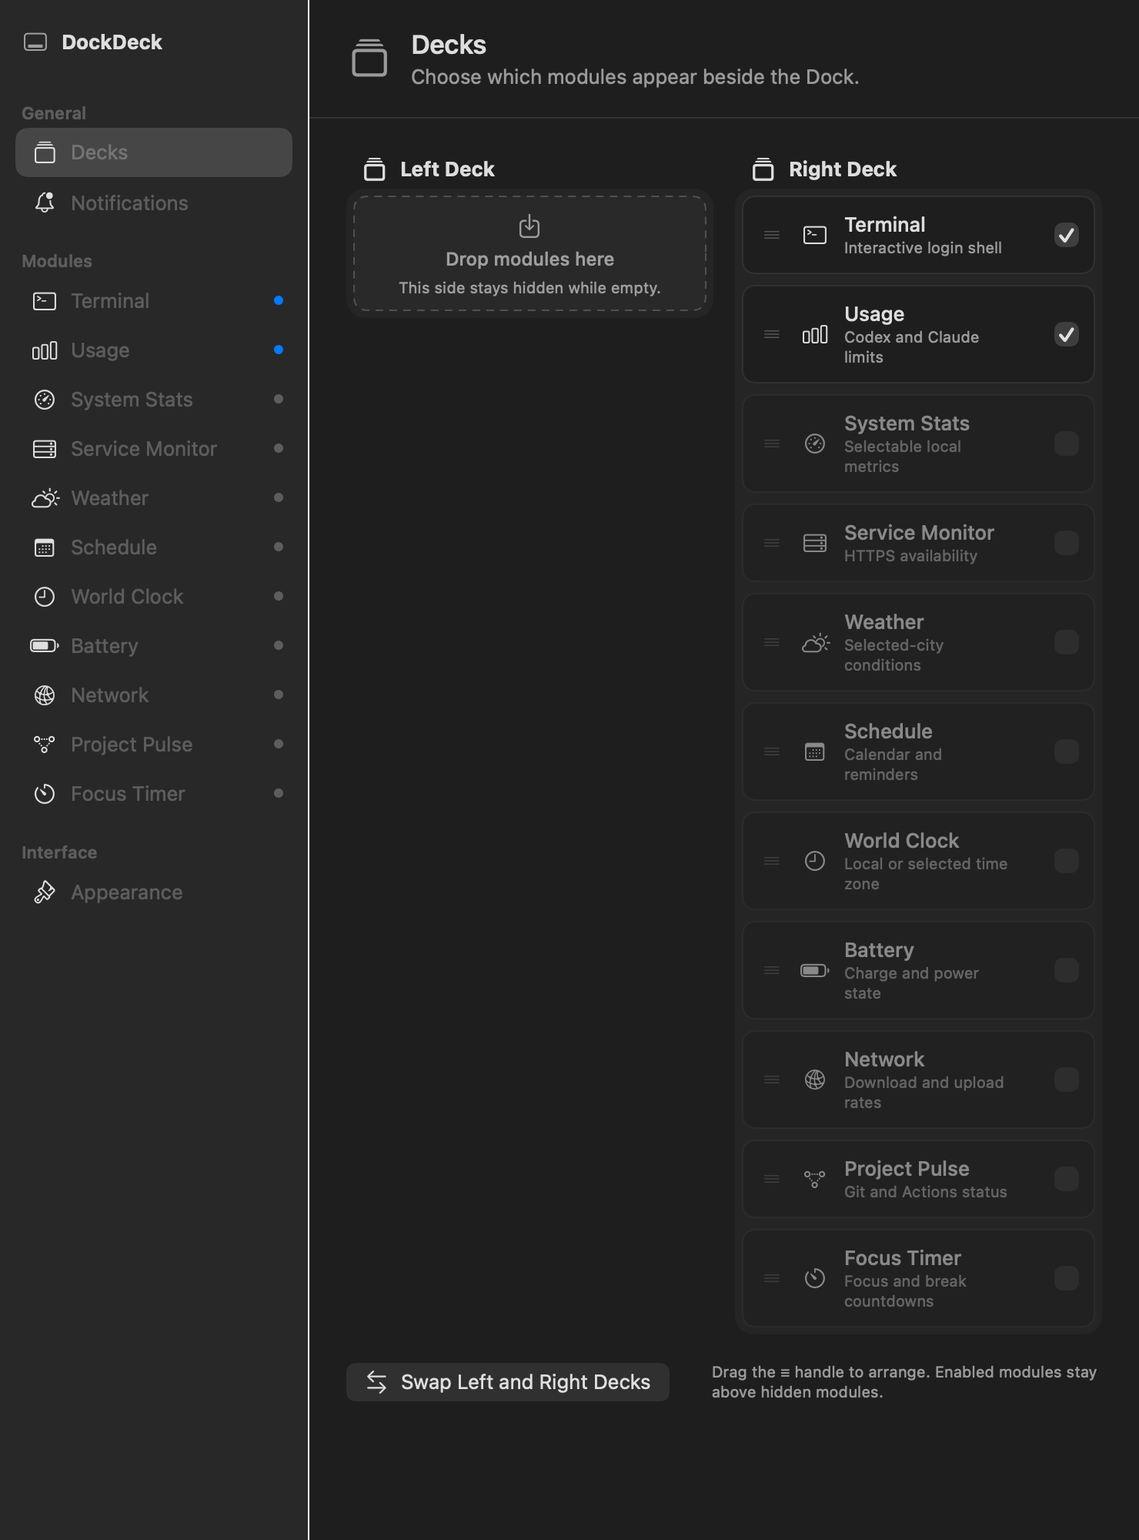
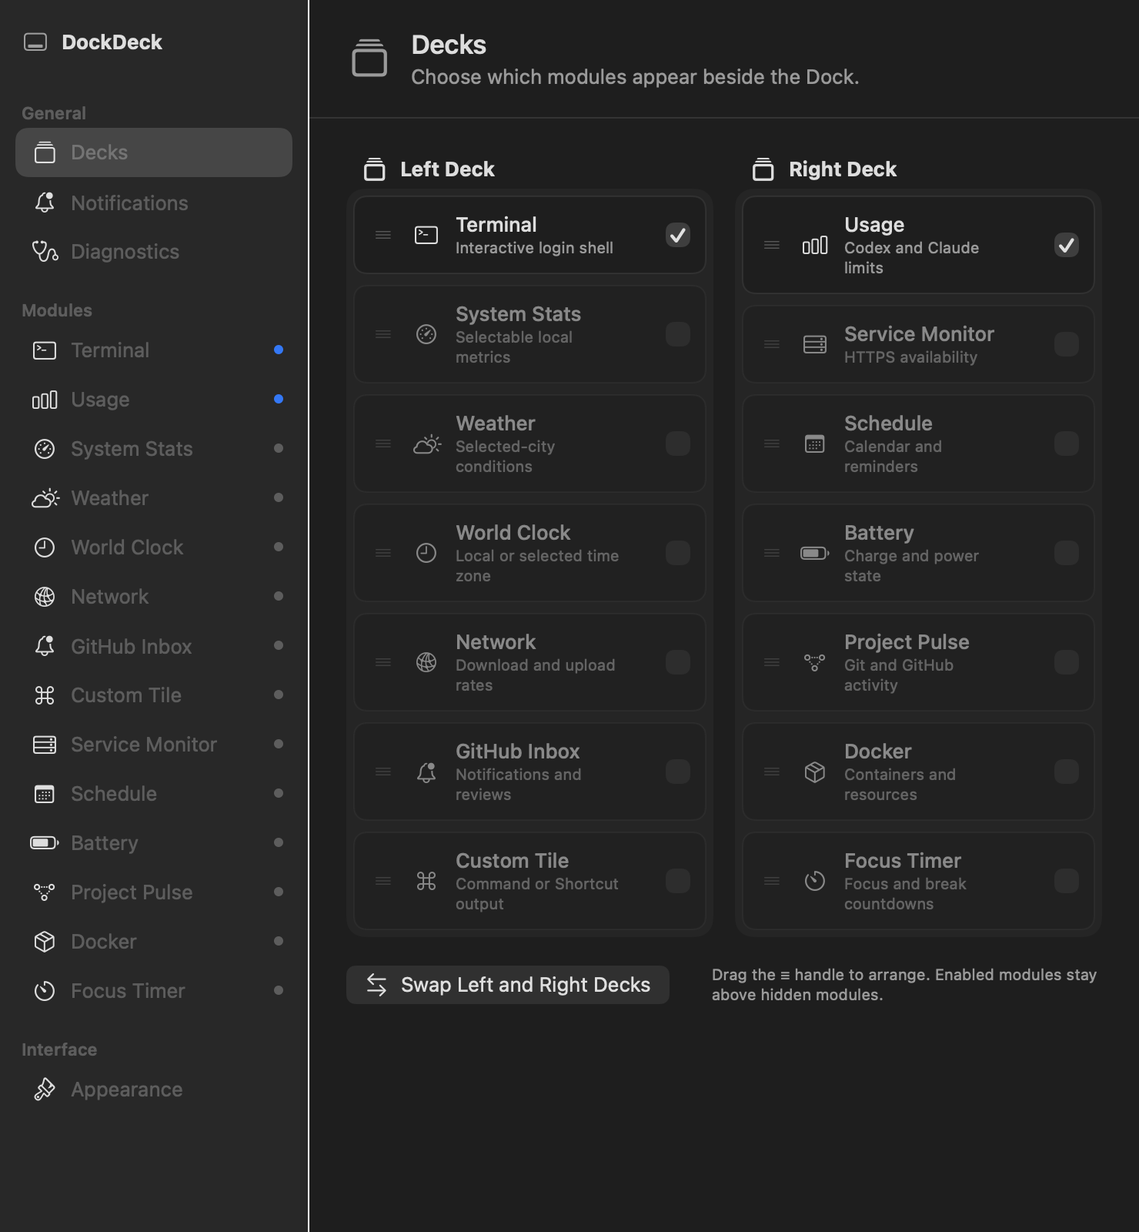
docs: document new modules

diff --git a/README.md b/README.md
@@ -18,25 +18,29 @@
   <sub>Compact terminal and configurable Codex and Claude usage beside the macOS Dock. Open the image for full resolution.</sub>
 </p>
 
-DockDeck uses the space beside a bottom-aligned Dock for up to two compact module Decks. Assign Terminal, Usage, System Stats, Service Monitor, Weather, Schedule, World Clock, Battery, Network, Project Pulse, and Focus Timer to either side; each non-empty Deck shows one enabled module at a time. The terminal stays interactive whenever it is selected. Both Decks follow the Dock across displays, Spaces, and auto-hide transitions.
+DockDeck uses the space beside a bottom-aligned Dock for up to two compact module Decks. Assign Terminal, Usage, System Stats, Service Monitor, Weather, Schedule, World Clock, Battery, Network, Project Pulse, GitHub Inbox, Docker, Custom Tile, and Focus Timer to either side; each non-empty Deck shows one enabled module at a time. The terminal stays interactive whenever it is selected. Both Decks follow the Dock across displays, Spaces, and auto-hide transitions.
 
 ## Features
 
 - Persistent [SwiftTerm](https://github.com/migueldeicaza/SwiftTerm) login shell with a compact `% ` prompt that does not change user shell files.
 - Remaining or used Codex and Claude capacity, reset times, and an optional even-use pace marker from their supported local CLIs. Claude can refresh automatically or use only its optional status-line bridge; neither mode reads browser cookies or private web endpoints.
-- Two to four selectable local CPU, memory, disk, network-I/O, and temperature tiles with a configurable 1–10 second sampling interval.
-- HTTPS service availability and latency checks for up to four user-configured endpoints.
+- Two to four selectable local CPU, memory, disk, network-I/O, and temperature tiles with a configurable 1–10 second sampling interval and in-memory trend lines.
+- HTTPS service availability and latency checks for up to four user-configured endpoints, including recent response-time trends.
 - Current temperature, daily high and low, and conditions for a user-selected city.
 - Current or next macOS Calendar event plus optional due Reminders, with separate explicit permissions and source selection.
 - Local or selected-world-time display with system, 12-hour, and 24-hour formats.
 - Internal battery level, power state, and the system-provided charge or discharge estimate.
 - Local download and upload throughput for the current primary network interface.
 - Local Git status, one remote GitHub repository, or the signed-in user's 7-day GitHub contribution summary through the installed `gh` CLI.
+- Account-wide GitHub notifications, mentions, review requests, and optional recent Actions failures through the installed `gh` CLI.
+- Local Docker container counts, health, CPU, and memory through the installed Docker CLI.
+- Bounded text or JSON output from a trusted executable or macOS Shortcut.
 - Persistent focus and break countdowns that continue behind other modules and survive an app restart.
 - Opt-in native notifications for quota thresholds, service transitions, low battery, and completed focus timers.
 - Dock-aware, symmetric placement across displays, Spaces, and auto-hide transitions.
-- Independent manual module selection per Deck; right-click either Deck to select a module or open its settings.
+- Animated manual module selection per Deck; scroll to switch, double-click a read-only panel for a resizable detail window, or right-click for navigation and settings. Reduce Motion is respected.
 - A shared sectioned Settings sidebar with Deck cards, module detail pages, side placement, and independent module visibility controls.
+- On-demand Diagnostics for local CLI sign-in, Accessibility, the optional temperature reader, and network availability.
 - Disabled modules stop their background work; selected samplers use a coarser cadence while hidden, and all module timers slow in macOS Low Power Mode.
 - Click-to-focus terminal expansion, forgiving edge resizing, and remembered dimensions.
 - Native Liquid Glass on macOS 26, with a translucent fallback and stronger terminal tint on earlier macOS.
@@ -56,20 +60,23 @@ DockDeck uses the space beside a bottom-aligned Dock for up to two compact modul
 | Battery | Charge, power state, and time estimate | [Module catalog](docs/modules/catalog.md#battery) |
 | Network | Primary-interface download and upload throughput | [Module catalog](docs/modules/catalog.md#network) |
 | Project Pulse | Local Git, one GitHub repository, or personal GitHub contribution activity | [Project Pulse](docs/modules/project-pulse.md) |
+| GitHub Inbox | Notifications, mentions, reviews, and optional Actions failures | [GitHub Inbox](docs/modules/github-inbox.md) |
+| Docker | Local container state and aggregate resource use | [Module catalog](docs/modules/catalog.md#docker) |
+| Custom Tile | Bounded output from a trusted executable or macOS Shortcut | [Custom Tile](docs/modules/custom-tile.md) |
 | Focus Timer | Persistent focus and break countdowns | [Module catalog](docs/modules/catalog.md#focus-timer) |
 
 ## Decks and settings
 
-Settings are organized into **General**, **Modules**, and **Interface** sections. Module pages are generated from the same registry that drives the Deck editor, with enabled modules listed first. Drag a card from its `≡` handle within a Deck to set its cycle order or into the other Deck to change sides. Cards preview their destination and animate into place while dragging; macOS Reduce Motion is respected. The same moves are available from each card's context menu. Move every card to one Deck if you want the other side completely empty and hidden. You can also swap the complete left and right Decks. At least one module remains enabled so Settings stays reachable. DockDeck remembers each Deck's selected module and the last Settings page you opened.
+Settings are organized into **General**, **Modules**, and **Interface** sections. Module pages are generated from the same registry that drives the Deck editor, with enabled modules listed first. Drag a card from its `≡` handle within a Deck to set its cycle order or into the other Deck to change sides. Cards preview their destination and animate into place while dragging; macOS Reduce Motion is respected. The same moves are available from each card's context menu. Move every card to one Deck if you want the other side completely empty and hidden. You can also swap the complete left and right Decks. At least one module remains enabled so Settings stays reachable. DockDeck remembers each Deck's selected module and the last Settings page you opened. Scroll over a compact Deck to cycle its modules; a transient page indicator shows the new position.
 
 <p align="center">
   <a href="assets/dockdeck-decks-settings.png">
-    <img src="assets/dockdeck-decks-settings.png" width="620" alt="DockDeck Decks settings with an empty left Deck and every module arranged on the right" />
+    <img src="assets/dockdeck-decks-settings.png" width="620" alt="DockDeck Decks settings with modules arranged across left and right Decks" />
   </a>
 </p>
 
 <p align="center">
-  <sub>An empty Deck remains a drop target in Settings and is hidden beside the Dock.</sub>
+  <sub>Modules can be ordered on either side. An empty Deck remains a drop target in Settings and is hidden beside the Dock.</sub>
 </p>
 
 ## Documentation
@@ -79,8 +86,11 @@ Settings are organized into **General**, **Modules**, and **Interface** sections
 - [System Stats metrics and macOS memory semantics](docs/modules/system-stats.md)
 - [Schedule and Reminders](docs/modules/schedule.md)
 - [Project Pulse](docs/modules/project-pulse.md)
-- [Service Monitor, Weather, World Clock, Battery, Network, and Focus Timer](docs/modules/catalog.md)
+- [GitHub Inbox](docs/modules/github-inbox.md)
+- [Custom Tile](docs/modules/custom-tile.md)
+- [Service Monitor, Weather, World Clock, Battery, Network, Docker, and Focus Timer](docs/modules/catalog.md)
 - [Local notifications](docs/notifications.md)
+- [Diagnostics](docs/diagnostics.md)
 - [Claude Code monitoring modes, bridge setup, and troubleshooting](docs/integrations/claude-code.md)
 
 ## Requirements
@@ -89,6 +99,8 @@ Settings are organized into **General**, **Modules**, and **Interface** sections
 - Accessibility permission for Dock geometry tracking
 - [Codex CLI](https://github.com/openai/codex) signed in locally for Codex usage data
 - A current [Claude Code](https://code.claude.com/docs/en/installation) release signed in locally for Claude usage data; the status-line bridge is optional
+- [GitHub CLI](https://cli.github.com/) signed in locally for GitHub modules (optional)
+- A running local Docker engine and Docker CLI for the Docker module (optional)
 - Swift 5.9 or later when building from source
 
 Without Accessibility permission, DockDeck remains usable in fixed fallback positions. Only a bottom-aligned Dock is tracked precisely; side-aligned Docks use the fallback layout.
@@ -162,14 +174,17 @@ DockDeck does not read browser cookies, browser credential stores, or private we
 | --- | --- | --- |
 | Codex | `codex app-server` using `account/rateLimits/read` | Runs the locally installed official Codex CLI as a long-lived subprocess |
 | Claude | Official Claude Code `/usage`; optional status-line JSON | In Automatic mode, briefly launches the signed-in local CLI in safe mode, captures bounded usage text in memory, then exits. Status Line Only stores only `rate_limits` and an observation timestamp in a local cache. DockDeck never reads Claude OAuth credentials. |
-| System Stats | macOS host, file-system, routing, and `ProcessInfo` APIs; optional validated local Stats SMC tool | Samples only selected CPU, memory, disk, network-counter, and temperature values locally; makes no network request |
-| Service Monitor | User-configured HTTPS or local HTTP URLs | Sends cookie-free `HEAD` requests; rejects common URL credential fields before local storage |
+| System Stats | macOS host, file-system, routing, and `ProcessInfo` APIs; optional validated local Stats SMC tool | Samples only selected CPU, memory, disk, network-counter, and temperature values locally; recent trends stay in memory for at most 15 minutes |
+| Service Monitor | User-configured HTTPS or local HTTP URLs | Sends cookie-free `HEAD` requests; rejects common URL credential fields before local storage; recent latency stays in memory for at most 15 minutes |
 | Weather | Open-Meteo forecast and geocoding APIs | Sends submitted searches and selected coordinates over HTTPS only while used; stores the selected city locally |
 | Schedule | Apple EventKit | Reads selected calendars and optional due Reminders into memory after separate explicit permissions; never saves, edits, logs, or uploads items |
 | World Clock | macOS time-zone database | Formats time locally and stops its minute timer while disabled |
 | Battery | macOS IOKit | Reads the internal power source locally; does not read battery identifiers or serial numbers |
 | Network | macOS routing and configuration APIs | Reads only primary-interface byte counters; does not inspect network traffic or destinations |
 | Project Pulse | Local `git`; authenticated `gh` REST, GraphQL, and optional Actions calls | Stores a selected local path, GitHub view, or `owner/repository` name. Personal contribution totals stay in memory; command output and GitHub tokens are never stored. |
+| GitHub Inbox | Authenticated `gh` notifications and optional Actions calls | Stores only an optional `owner/repository` name. Counts and command output stay in memory; authentication remains owned by GitHub CLI. |
+| Docker | Local Docker CLI and engine socket | Runs read-only `ps` and `stats` commands. Container output stays in memory and Docker credentials are not read by DockDeck. |
+| Custom Tile | User-selected executable or macOS Shortcut | Stores its path, arguments, or Shortcut name. Output stays in memory. The trusted source runs with the user's permissions under strict time and output limits. |
 | Focus Timer | Local countdown state | Stores phase, deadline, and remaining duration only when timer state changes |
 | Notifications | macOS UserNotifications | Evaluates enabled rules locally and sends no notification data to an external service |
 

diff --git a/docs/modules/custom-tile.md b/docs/modules/custom-tile.md
@@ -1,0 +1,78 @@
+# Custom Tile
+
+Custom Tile displays bounded output from one trusted executable or macOS
+Shortcut. It is intended for small local summaries such as a build state,
+queue length, or environment status—not an interactive terminal.
+
+## Configure a source
+
+Enable **Custom Tile** under **Settings → Decks**, then open
+**Settings → Custom Tile**.
+
+### Executable
+
+Enter an absolute executable path and up to 16 arguments, one per line. DockDeck
+passes the arguments directly to `Process`; it does not invoke a shell. Pipes,
+redirection, globbing, command substitution, and shell variables are therefore
+not interpreted. If shell behavior is required, create and review a script,
+make it executable, and select that script explicitly.
+
+### macOS Shortcut
+
+Enter the exact Shortcut name. DockDeck invokes the built-in command-line form:
+
+```text
+/usr/bin/shortcuts run <name>
+```
+
+The Shortcut and any permissions or side effects it contains remain under the
+user's control. See Apple's
+[Shortcuts command-line guide](https://support.apple.com/guide/shortcuts-mac/run-shortcuts-from-the-command-line-apd455c82f02/mac).
+
+## Output formats
+
+Plain UTF-8 output uses the first line as the value and the optional second line
+as detail:
+
+```text
+42%
+Ready
+```
+
+JSON provides optional title and SF Symbol fields. `value` is required and all
+fields must be strings:
+
+```json
+{
+  "title": "Build",
+  "value": "Passing",
+  "detail": "main",
+  "symbol": "checkmark.circle"
+}
+```
+
+Text is flattened to one line per field and bounded for the compact panel. An
+invalid or unknown SF Symbol falls back to the command icon. Malformed JSON,
+non-UTF-8 data, empty output, or a nonzero exit status produces an unavailable
+state rather than displaying untrusted raw data.
+
+## Runtime and security boundaries
+
+- No shell is used by DockDeck.
+- The executable path must be absolute and executable.
+- At most 16 arguments of 1,024 characters each are stored.
+- A run is stopped after 5 seconds.
+- Combined stdout and stderr are limited to 32 KiB; only stdout is parsed.
+- Output remains in memory and is not logged or saved.
+- The configured title, source, executable path, arguments, Shortcut name, and
+  interval are stored in local preferences.
+
+Do not place passwords, tokens, or other secrets in arguments. A selected
+program or Shortcut runs with the macOS user's file, network, and environment
+access, so configure only software you trust. Runtime and output limits reduce
+accidental resource use; they are not a security sandbox.
+
+Choose a 1-, 5-, or 15-minute interval. Disabling the module stops its timer and
+subprocesses. Hidden polling is three times slower, and macOS Low Power Mode
+adds another two-times multiplier. `⌘R` requests an immediate run while the
+module is enabled.

diff --git a/docs/modules/github-inbox.md b/docs/modules/github-inbox.md
@@ -1,0 +1,48 @@
+# GitHub Inbox
+
+GitHub Inbox summarizes unread account notifications through the locally
+installed and authenticated GitHub CLI. It is separate from Project Pulse:
+Project Pulse describes repository or contribution activity, while GitHub Inbox
+answers what currently needs attention.
+
+## Setup
+
+1. Install [GitHub CLI](https://cli.github.com/) and run `gh auth login`.
+2. Enable **GitHub Inbox** under **Settings → Decks**.
+3. Open **Settings → GitHub Inbox** and choose a 5-, 10-, or 15-minute interval.
+4. Optionally choose one repository for recent failed Actions runs.
+
+Use **Settings → Diagnostics** to check that the CLI is installed and signed in.
+DockDeck never starts a GitHub login flow.
+
+## Panel values
+
+| Label | Value |
+| --- | --- |
+| `NEW` | All unread notifications returned for the signed-in account |
+| `@` | Direct and team mentions |
+| `REV` | Pull-request review requests |
+| `CI` | CI-activity notifications when no Actions repository is selected |
+| `FAIL` | Failed, timed-out, startup-failed, or action-required runs during the previous seven days for the selected repository |
+
+The optional Actions query examines at most 100 failed runs, so `FAIL` can be a
+lower bound for unusually active repositories. Hover the panel or use VoiceOver
+for the expanded description.
+
+## Data and polling
+
+DockDeck invokes `gh api --paginate` for GitHub's notifications endpoint. When
+a repository is selected, it also invokes `gh run list` and filters results to
+the rolling seven-day window. See GitHub's
+[Notifications REST API](https://docs.github.com/en/rest/activity/notifications)
+and the [`gh run list` manual](https://cli.github.com/manual/gh_run_list).
+
+GitHub CLI owns authentication and token storage. DockDeck stores only the
+optional validated `owner/repository` name. Notification payloads, aggregate
+counts, Actions results, and command output stay in memory and are discarded.
+
+Disabling the module stops its timer and subprocesses. Hidden polling is three
+times slower than the selected interval; macOS Low Power Mode adds another
+two-times multiplier. `⌘R` requests an immediate refresh when the module is
+enabled. A failed refresh retains the last successful snapshot and exposes the
+error in panel help.

diff --git a/docs/modules/catalog.md b/docs/modules/catalog.md
@@ -19,6 +19,8 @@ storage disabled. DockDeck stores service names and URLs in local preferences,
 rejects URL user-info and common secret query fields, and does not use response
 bodies. Do not place secrets in URL paths. Enable the module under
 **Settings → Decks**, then configure it under **Settings → Service Monitor**.
+Successful response times form a 15-minute in-memory trend line. The history is
+never written to disk and disappears when DockDeck exits.
 
 On macOS 15 or later, the first local-network check can show Apple's Local
 Network permission prompt. Public HTTPS checks do not require this permission.
@@ -73,7 +75,24 @@ traffic, IP addresses, hostnames, or packet contents.
 Select a 1-second, 2-second, or 5-second interval under
 **Settings → Network**. Sampling and counter retention stop while the module is
 disabled. The primary interface name remains available in panel help and
-accessibility text.
+accessibility text. Download and upload trend lines retain at most 15 minutes or
+900 samples in memory and are never written to disk.
+
+## Docker
+
+Docker uses the installed local Docker CLI to show running, stopped, and
+unhealthy container counts plus aggregate live CPU and memory for running
+containers. Select a 5-second, 10-second, or 30-second interval under
+**Settings → Docker**.
+
+DockDeck runs read-only `docker ps -a` and `docker stats --no-stream` commands.
+The Docker engine and CLI must already be installed and running; DockDeck does
+not start the engine, authenticate to a registry, read Docker credentials, or
+modify containers. Output is bounded, parsed in memory, and discarded. A CLI or
+engine failure leaves the last successful snapshot visible with an unavailable
+state. Polling stops while the module is disabled and slows while hidden or in
+macOS Low Power Mode. See Docker's official
+[`docker container stats` reference](https://docs.docker.com/reference/cli/docker/container/stats/).
 
 ## Focus Timer
 

diff --git a/docs/diagnostics.md b/docs/diagnostics.md
@@ -1,0 +1,25 @@
+# Diagnostics
+
+Open **Settings → Diagnostics** to check the local dependencies used by
+DockDeck. Checks run once when the page opens and again only when **Refresh** is
+pressed; there is no diagnostics polling timer.
+
+| Check | Ready means |
+| --- | --- |
+| Codex | The installed CLI reports an active local sign-in |
+| Claude Code | The installed CLI reports an active local sign-in |
+| GitHub CLI | `gh` reports an active `github.com` sign-in |
+| Accessibility | Dock geometry tracking permission is granted |
+| Temperature sensor | The validated signed Stats SMC helper is available |
+| Network | macOS reports an active primary interface |
+
+CLI stdout and stderr are discarded. DockDeck records only the status, check
+time, and the last successful check in app memory; it does not display or store
+account identifiers, command output, or tokens. Each command check has a
+three-second limit. A local CLI wrapper's own directory is added to its child
+`PATH`, allowing NVM and similar installations to resolve adjacent runtimes
+when DockDeck starts as a LaunchAgent.
+
+Diagnostics reports dependency readiness, not service uptime or entitlement
+details. Use the module's panel help and guide when a dependency is ready but a
+specific refresh still fails.

diff --git a/docs/modules/system-stats.md b/docs/modules/system-stats.md
@@ -13,8 +13,15 @@ the module stops all sampling.
 | Network I/O | Download and upload rates on the current primary interface |
 | Temperature | Numeric sensor value when the validated optional reader is available, plus macOS thermal pressure |
 
-Percentage metrics use progress bars. Network I/O uses compact down/up rates.
-Temperature combines a numeric value with a color-coded thermal-pressure bar.
+Percentage metrics use progress bars until enough samples exist, then CPU and
+memory use compact trend lines. Network I/O uses compact down/up rates and a
+combined-transfer trend. Temperature combines a numeric value with a
+color-coded thermal-pressure bar.
+
+CPU, memory, and network histories cover only the latest 15 minutes and at most
+900 samples. They stay in memory, reset when DockDeck exits, and are discarded
+if the system clock moves backwards. The separate Network module keeps distinct
+download and upload histories under the same limits.
 
 ## Memory semantics on macOS
 

diff --git a/docs/modules/usage.md b/docs/modules/usage.md
@@ -64,6 +64,12 @@ locked. An in-flight probe is cancelled and one fresh probe runs after the
 system becomes active. DockDeck does not install a global keyboard or pointer
 idle monitor.
 
+Each command path has a fixed runtime limit, and the Usage store adds a 30-second
+watchdog. Pipe capture is closed explicitly after the Claude process exits, so a
+descendant process cannot leave refresh permanently waiting for end-of-file. If
+a transient probe fails, the last valid values remain visible as stale data and
+the hover detail reports the latest refresh error.
+
 The command can return 5-hour, weekly, and plan-specific Fable windows. DockDeck
 shows `FBL` only when Claude returns that value and never estimates it.
 [Fable availability is plan-specific](https://support.claude.com/en/articles/15424964-claude-fable-models-on-your-plan).

diff --git a/docs/integrations/claude-code.md b/docs/integrations/claude-code.md
@@ -71,6 +71,12 @@ environment. Claude Code still uses its own existing local sign-in and may
 contact Anthropic to render `/usage`; DockDeck never reads that credential or
 calls a private account endpoint itself.
 
+Direct capture, hidden-PTY capture, and the store watchdog are independently
+bounded. DockDeck also closes its pipe readers after the child exits rather than
+waiting indefinitely for inherited file descriptors. On a transient failure it
+keeps the last successful limits visible as stale data and includes the current
+error in the provider hover text.
+
 The hidden-PTY fallback is not unique to DockDeck. Community implementations
 such as [claude-code-usage-overlay](https://github.com/MattPears1/claude-code-usage-overlay)
 and [Agents Deck](https://github.com/vulonviing/agents-deck) use the same general

diff --git a/docs/README.md b/docs/README.md
@@ -11,11 +11,14 @@ front page harder to scan.
 - [System Stats](modules/system-stats.md)
 - [Schedule and Reminders](modules/schedule.md)
 - [Project Pulse](modules/project-pulse.md)
-- [Service Monitor, Weather, World Clock, Battery, Network, and Focus Timer](modules/catalog.md)
+- [GitHub Inbox](modules/github-inbox.md)
+- [Custom Tile](modules/custom-tile.md)
+- [Service Monitor, Weather, World Clock, Battery, Network, Docker, and Focus Timer](modules/catalog.md)
 
 ## App behavior
 
 - [Local notifications](notifications.md)
+- [Diagnostics](diagnostics.md)
 
 ## Integrations
 
